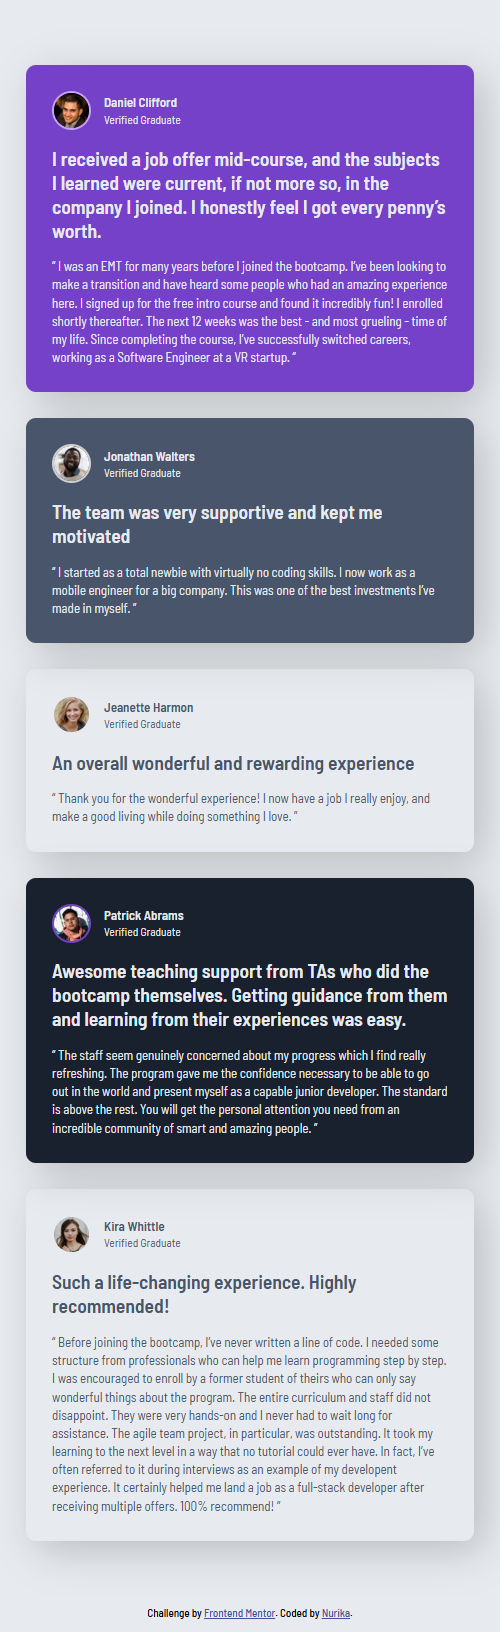
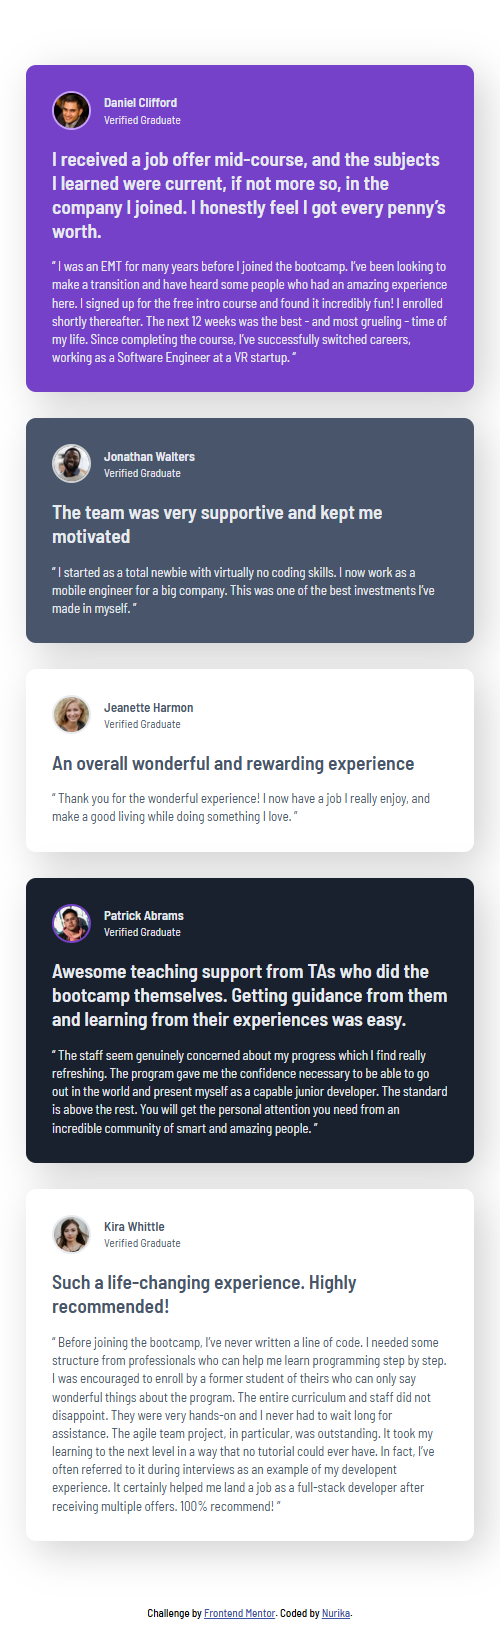
update screenshot
updated background color and grid size

Changed region(s): [[0.06, 0.7188, 0.96, 0.75], [0.06, 0.4062, 0.96, 0.4375]]

diff --git a/style.css b/style.css
@@ -23,7 +23,7 @@ html {
 }
 
 body {
-    background-color: var(--grey100);
+    background-color: white;
 }
 
 .main-container {
@@ -96,6 +96,7 @@ img {
 
 .jeanette {
     color: var(--grey500);
+    background-color: white;
 }
 
 .jeanette img {
@@ -113,6 +114,7 @@ img {
 
 .kira {
     color: var(--grey500);
+    background-color: white;
 }
 
 .kira img {
@@ -137,7 +139,7 @@ img {
     .main-container {
         margin: 0 auto;
         display: grid;
-        grid-template-columns: 20% repeat(4, 1fr) 20%;
+        grid-template-columns: 10% repeat(4, 1fr) 10%;
         grid-template-rows: 8rem 1fr 1fr 8rem;
         gap: 2rem;
     }

diff --git a/index.html b/index.html
@@ -104,9 +104,11 @@
     </div>
   </main>
   
-  <div class="attribution">
-    Challenge by <a href="https://www.frontendmentor.io?ref=challenge" target="_blank">Frontend Mentor</a>. 
-    Coded by <a href="https://www.frontendmentor.io/profile/nunu114" target="_blank">Nurika</a>.
-  </div>
+  <footer>
+    <div class="attribution">
+      Challenge by <a href="https://www.frontendmentor.io?ref=challenge" target="_blank">Frontend Mentor</a>.
+      Coded by <a href="https://www.frontendmentor.io/profile/nunu114" target="_blank">Nurika</a>.
+    </div>
+  </footer>
 </body>
 </html>
